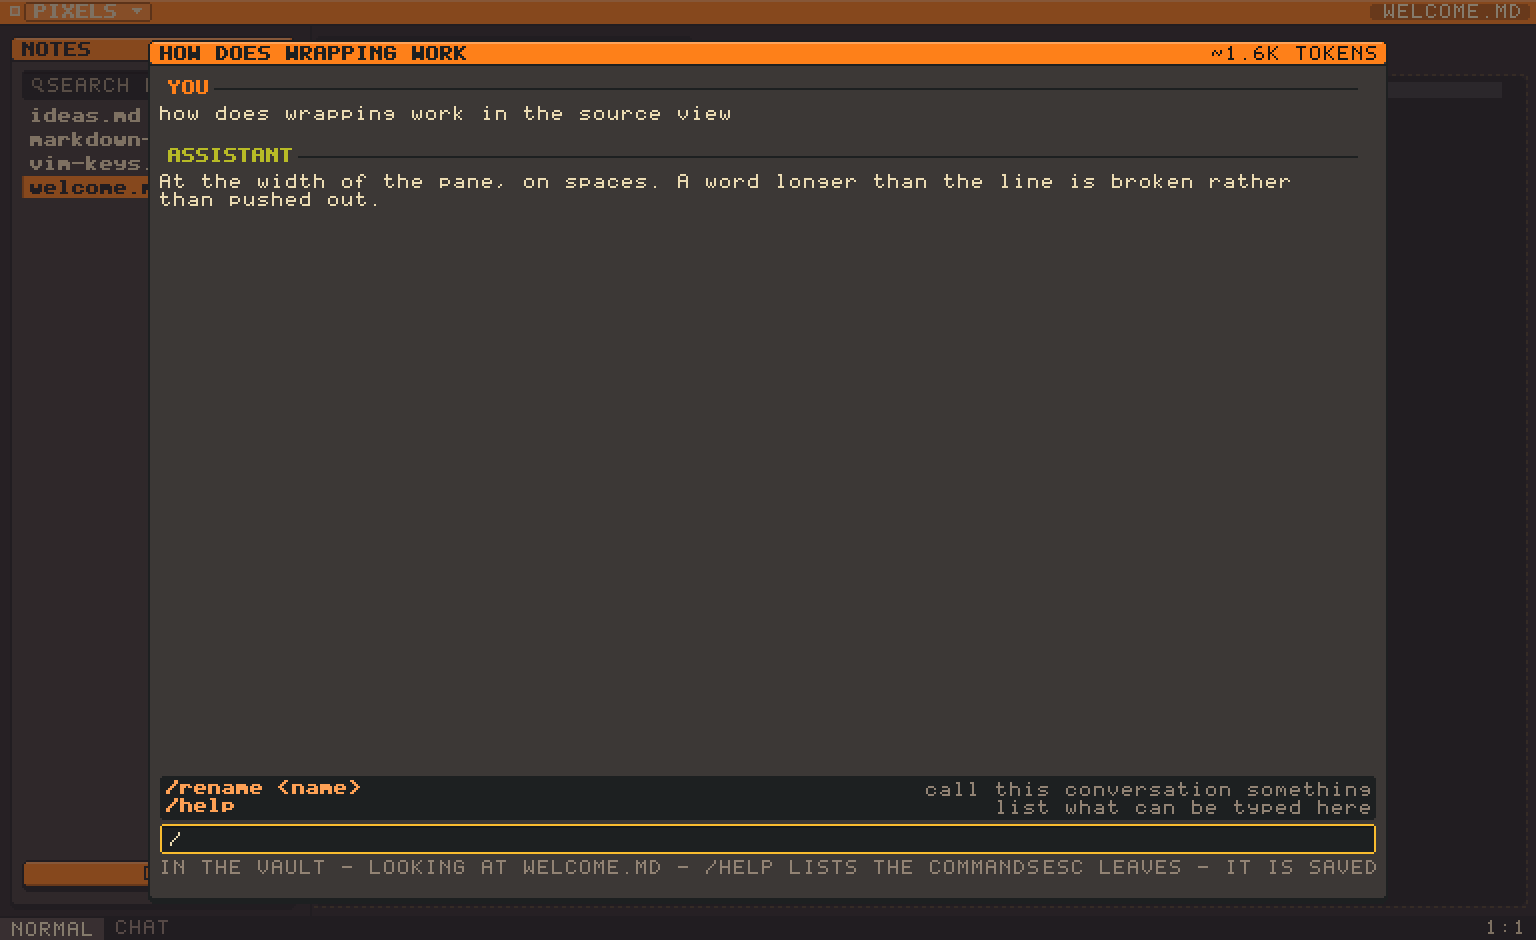
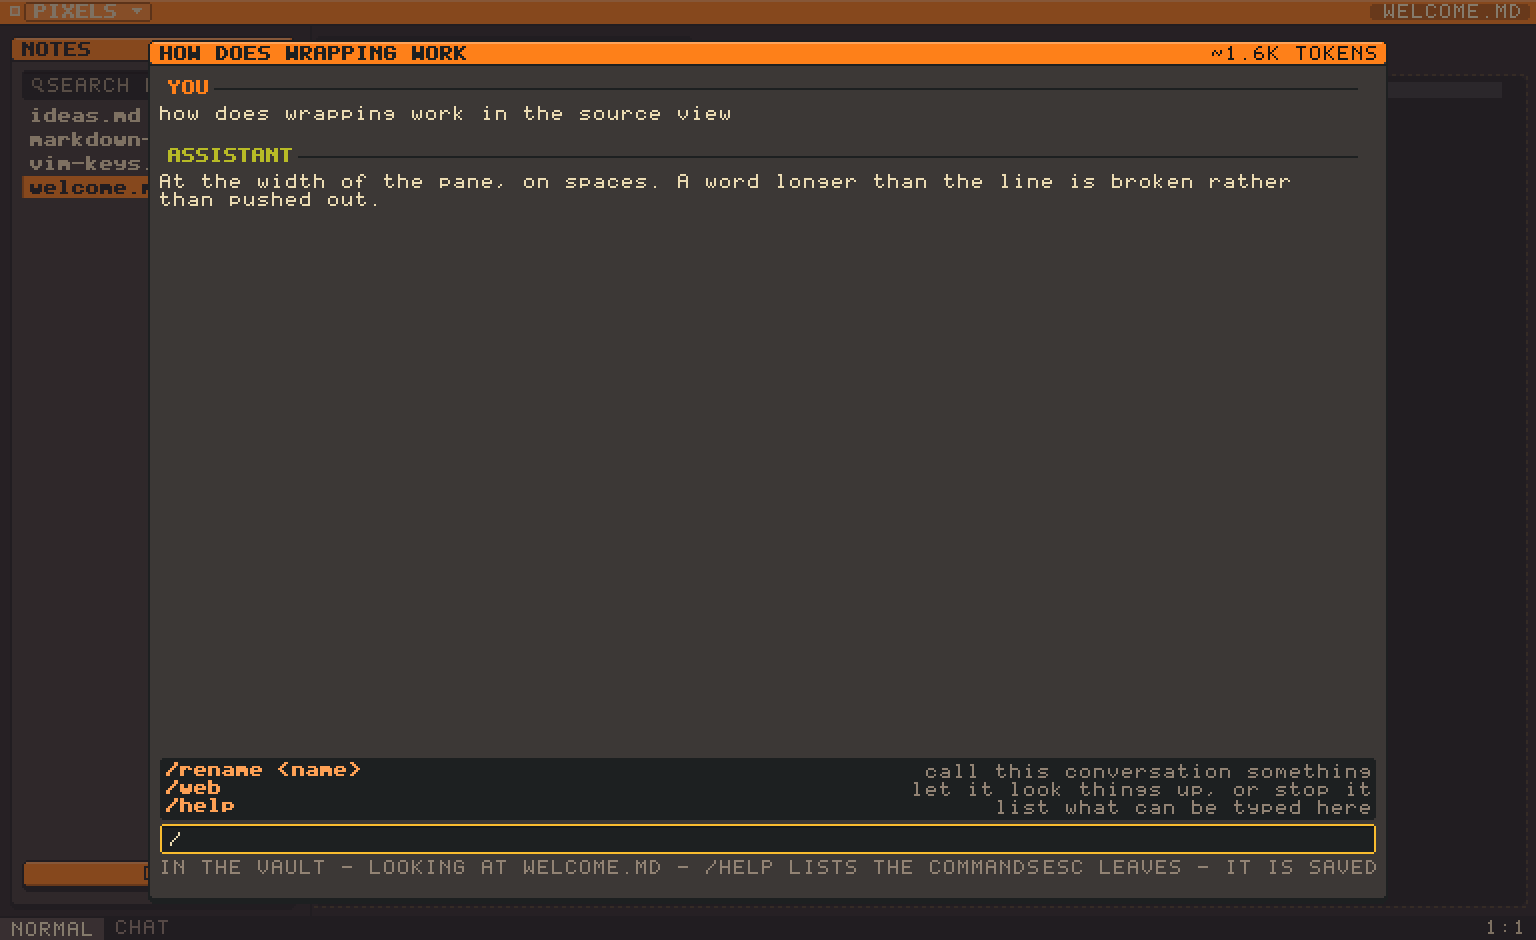
Say that looking things up is switched off, not only that it cannot
Asked how hot it was in Berlin with the web switch off, the answer was
"I don't have access to real-time weather data" - which is true, and is
also exactly what a broken feature says. One of the two has a switch,
and nothing in the answer said so.

The model is told which it is now: not that it has no such tool, but
that the tool is switched off and where the switch is. Measured on the
same question, it answers "web lookups are currently switched off - you
can turn them on in your settings or by typing /web to get the weather".
Asked twelve times twelve, with the same prompt, it says 144 and
mentions no switches at all, which is the other half of getting this
right.

And /web, which throws the switch from the conversation, so the sentence
that tells you about it is one you can act on where you are standing.
`/help` lists it like anything else.

Changed region(s): [[0.0938, 0.8021, 0.9062, 0.8638]]

diff --git a/src/chat.rs b/src/chat.rs
@@ -45,6 +45,11 @@ pub const COMMANDS: &[Command] = &[
         what: "call this conversation something",
     },
     Command {
+        name: "web",
+        takes: "",
+        what: "let it look things up, or stop it",
+    },
+    Command {
         name: "help",
         takes: "",
         what: "list what can be typed here",
@@ -154,6 +159,8 @@ pub struct Chat {
     /// True on the frame a completion rewrote the draft, so the field picks up
     /// the new text and puts the caret after it.
     retype: bool,
+    /// Set by `/web`, and spent by the application on the same frame.
+    flip_web: bool,
     scroll: ScrollState,
     /// True when the view should be pinned to the newest turn.
     follow: bool,
@@ -179,6 +186,8 @@ pub enum Outcome {
     Ask,
     /// Give up on the answer that is on its way.
     Stop,
+    /// Turn looking things up on, or off.
+    Web,
     /// Something changed that should be written down.
     Save,
     /// Put this change into the project.
@@ -565,6 +574,7 @@ impl Chat {
             notice: None,
             grab: true,
             retype: false,
+            flip_web: false,
             scroll: ScrollState::default(),
             follow: true,
             overhead: 0,
@@ -619,6 +629,9 @@ impl Chat {
                 self.notice = Some(format!("renamed to \"{}\"", self.title()));
             }
             "rename" => self.notice = Some("rename to what? /rename <name>".into()),
+            // Answered by the application, which owns the settings: this only
+            // says that it was asked.
+            "web" => self.flip_web = true,
             "help" => self.notice = Some(manual()),
             other => self.notice = Some(format!("no command called /{other} - /help lists them")),
         }
@@ -1180,9 +1193,13 @@ impl Chat {
         if !held && ui.input.key_pressed(Key::Enter) && !self.draft.trim().is_empty() {
             let typed = self.draft.clone();
             if self.command(&typed) {
-                // A rename is worth writing down straight away: it is the kind
-                // of thing you do and then close the panel.
-                outcome = Outcome::Save;
+                outcome = if std::mem::take(&mut self.flip_web) {
+                    Outcome::Web
+                } else {
+                    // A rename is worth writing down straight away: it is the
+                    // kind of thing you do and then close the panel.
+                    Outcome::Save
+                };
             } else if !self.waiting {
                 self.notice = None;
                 self.commit();

diff --git a/tests/editing.rs b/tests/editing.rs
@@ -5190,3 +5190,56 @@ fn knowing_the_day_needs_no_permission_to_leave_the_machine() {
     assert!(offline.contains(&"calc"));
     assert_eq!(offline.len(), 2, "and those are the two that are always on");
 }
+
+#[test]
+fn a_refusal_says_there_is_a_switch() {
+    // The bug this exists for: with looking things up off, the model answered
+    // "I don't have access to that", which is true and is also exactly what a
+    // broken feature says. One of them has a switch.
+    let off = notes::llm::Ask {
+        turns: vec![notes::llm::Turn {
+            mine: true,
+            text: "how hot is it in berlin".into(),
+        }],
+        tools: notes::tools::available(false),
+        web_off: true,
+        ..Default::default()
+    };
+    let said = off.system("editing");
+    assert!(said.contains("switched off"), "it is told which it is");
+    assert!(said.contains("/web"), "and how to change it");
+    assert!(
+        !said.contains("\"name\": \"weather\""),
+        "without being offered the tool itself"
+    );
+
+    let on = notes::llm::Ask {
+        tools: notes::tools::available(true),
+        web_off: false,
+        ..off.clone()
+    };
+    let said = on.system("editing");
+    assert!(
+        !said.contains("switched off"),
+        "and nothing about switches when it is on"
+    );
+    assert!(said.contains("\"name\": \"weather\""));
+}
+
+#[test]
+fn the_switch_can_be_thrown_from_the_conversation() {
+    let mut talk = chat::Chat::new("aquarium".into(), "water.md".into());
+    assert!(talk.command("/web"), "it is a command");
+    assert!(
+        !talk
+            .notice
+            .as_deref()
+            .unwrap_or_default()
+            .contains("no command"),
+        "and one this knows"
+    );
+    assert!(
+        notes::chat::COMMANDS.iter().any(|c| c.name == "web"),
+        "so /help says it is there"
+    );
+}

diff --git a/src/llm.rs b/src/llm.rs
@@ -50,6 +50,13 @@ pub struct Ask {
     /// is not the same as being told it has none: a tool it was never offered
     /// is one it cannot mention.
     pub tools: Vec<Tool>,
+    /// Whether looking things up is switched off rather than absent.
+    ///
+    /// The difference is worth telling the model, because the two produce the
+    /// same answer otherwise - "I do not have access to that" - and one of them
+    /// has a switch. A refusal that does not mention the switch is
+    /// indistinguishable from a broken feature.
+    pub web_off: bool,
 }
 
 impl Ask {
@@ -70,10 +77,19 @@ impl Ask {
         if !self.talking() {
             return editing.to_string();
         }
-        match self.tools.is_empty() {
+        let mut out = match self.tools.is_empty() {
             true => CHAT_PROMPT.to_string(),
             false => format!("{}\n\n{}", declare(&self.tools), CHAT_PROMPT),
+        };
+        if self.web_off {
+            out.push_str(
+                "\n\nLooking things up on the web is switched off in this app's settings, and \
+                 can be switched back on there or by typing /web. If a question needs the web - \
+                 the weather, the news, what is on a page - say that it is switched off and that \
+                 they can turn it on, rather than only that you cannot help.",
+            );
         }
+        out
     }
 }
 

diff --git a/src/lib.rs b/src/lib.rs
@@ -1177,6 +1177,10 @@ impl Notes {
             // Working a sum out happens here and is always on offer; looking
             // something up goes to somebody else's server and is not.
             tools: tools::available(self.settings.web),
+            // Off is not the same as absent, and the model should be able to
+            // say which it is: a refusal that does not mention the switch
+            // looks exactly like a feature that does not work.
+            web_off: !self.settings.web,
             ..llm::Ask::default()
         }
     }
@@ -1746,6 +1750,17 @@ pub fn frame(ui: &mut Ui, app: &mut Notes) {
                     talk.waiting = false;
                     talk.failed = Some("still busy with the last one".into());
                 }
+                app.chat = Some(talk);
+            }
+            chat::Outcome::Web => {
+                app.settings.web = !app.settings.web;
+                let _ = app.settings.save();
+                talk.notice = Some(if app.settings.web {
+                    "looking things up is on - the weather, wikipedia, releases, and any page"
+                        .into()
+                } else {
+                    "looking things up is off - nothing leaves this machine".into()
+                });
                 app.chat = Some(talk);
             }
             chat::Outcome::Stop => {

diff --git a/README.md b/README.md
@@ -91,7 +91,8 @@ ask for a change.
 - `Cmd-Enter` with nothing selected opens a conversation instead: the same
   context, no passage, and every chat is filed under the *project* it was had
   in - opened from any file in it you get the same conversations back, looking
-  at whichever file you asked from. `/help` lists what can be typed, Tab
+  at whichever file you asked from. `/help` lists what can be typed, `/web`
+  turns looking things up on and off without leaving the conversation, Tab
   finishes a half-typed command, and the title bar says what the last question
   came to in tokens
 - A conversation sees the whole project - every file in the folder, numbered -
